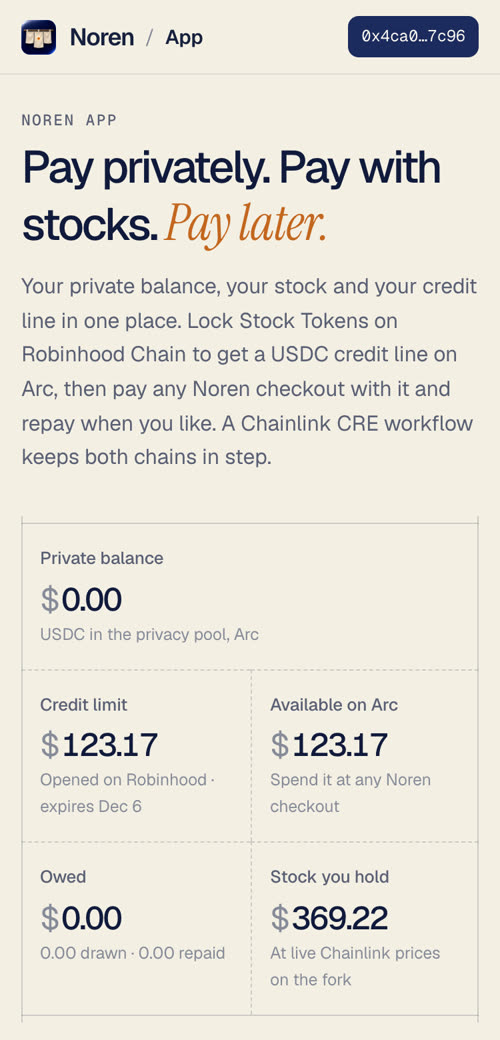
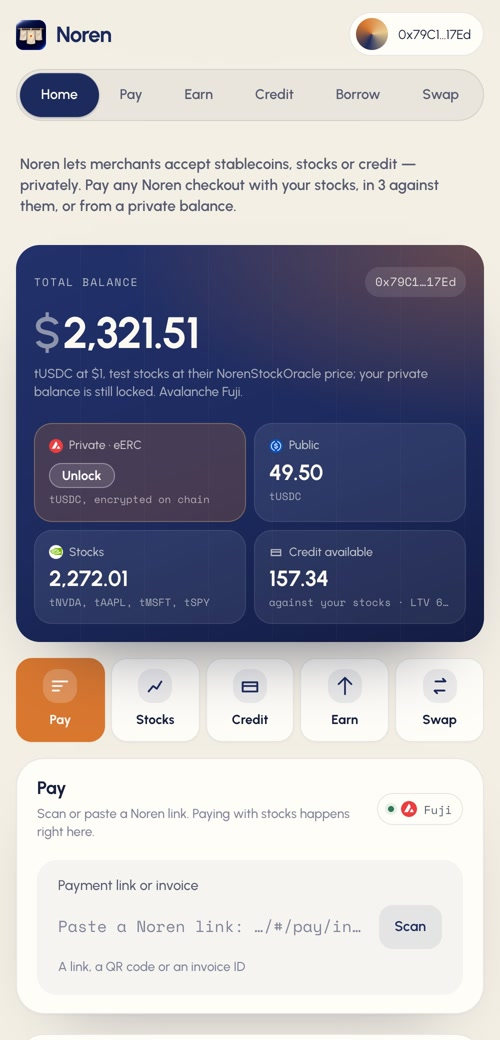
Landing: surface images are captures of this edition on Fuji (Juhu Chai House in Noren Merchant, the Aubelle checkout, the app's Home)

diff --git a/web/src/Landing.tsx b/web/src/Landing.tsx
@@ -243,7 +243,7 @@ export function Landing() {
               <figure className={`nx-shot ${s.k === "app" ? "phone" : "browser"}`}>
                 {s.k !== "app" && <span className="nx-dots" aria-hidden><i /><i /><i /></span>}
                 <img src={s.img} alt={`${s.name}: ${s.cap}`} width={s.w} height={s.h} loading="lazy" />
-                <figcaption className="mono">{s.cap} Real capture on the local test chains.</figcaption>
+                <figcaption className="mono">{s.cap} Real capture on Avalanche Fuji.</figcaption>
               </figure>
             </article>
           ))}
